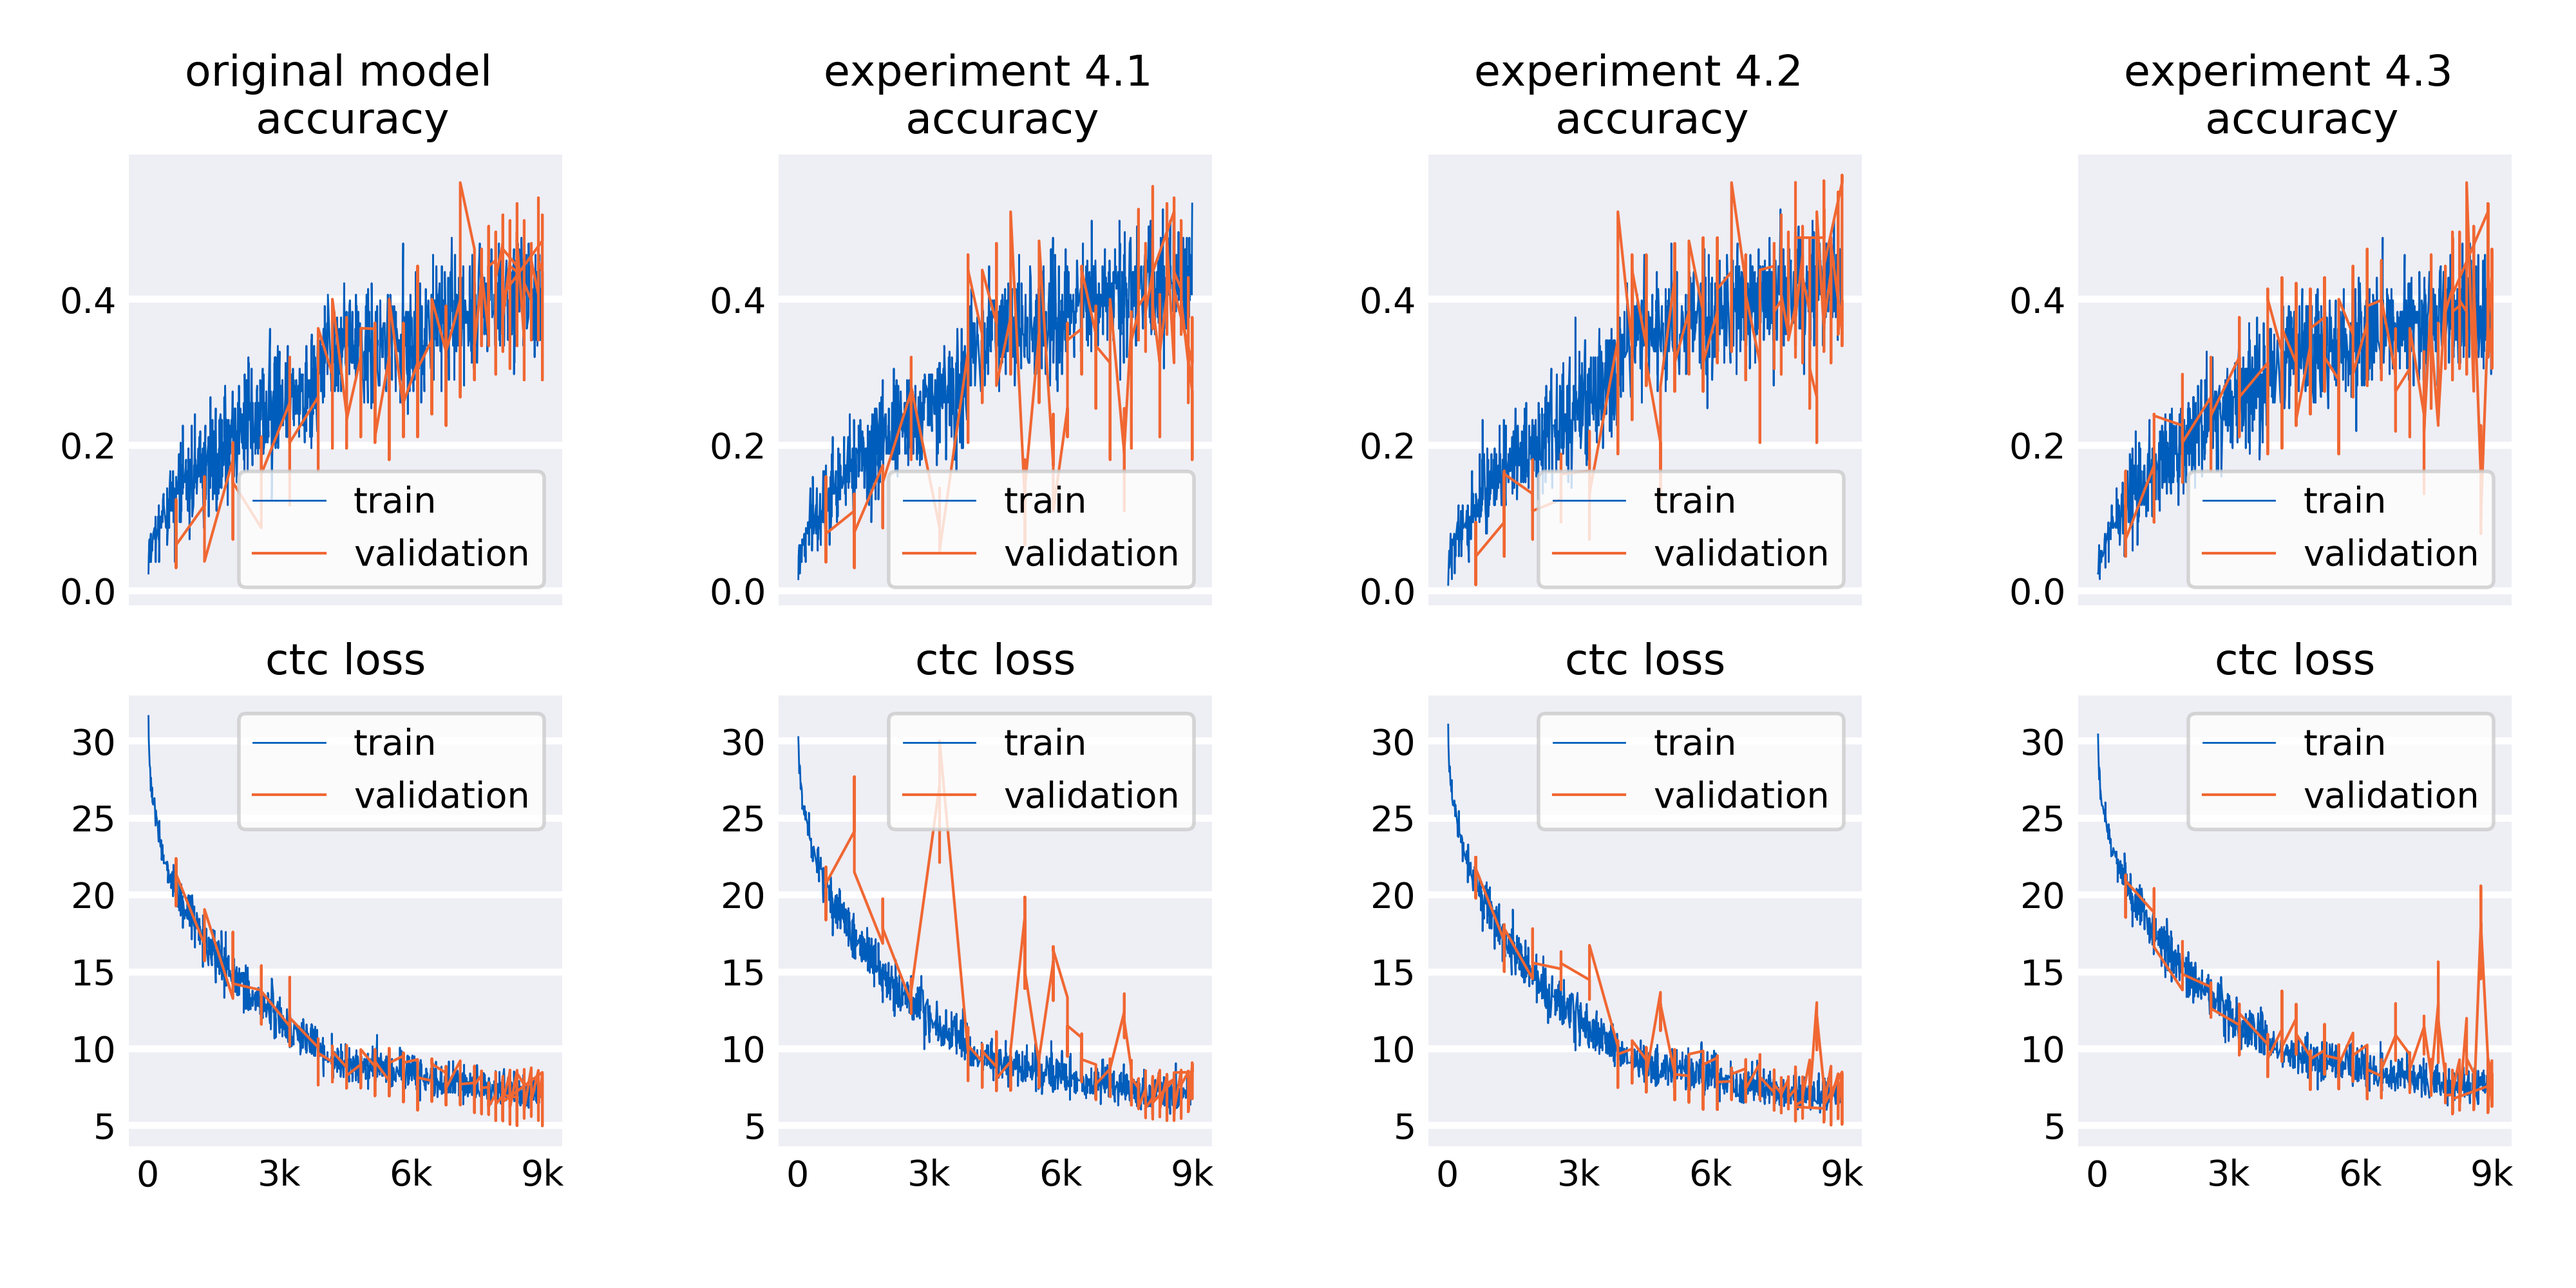
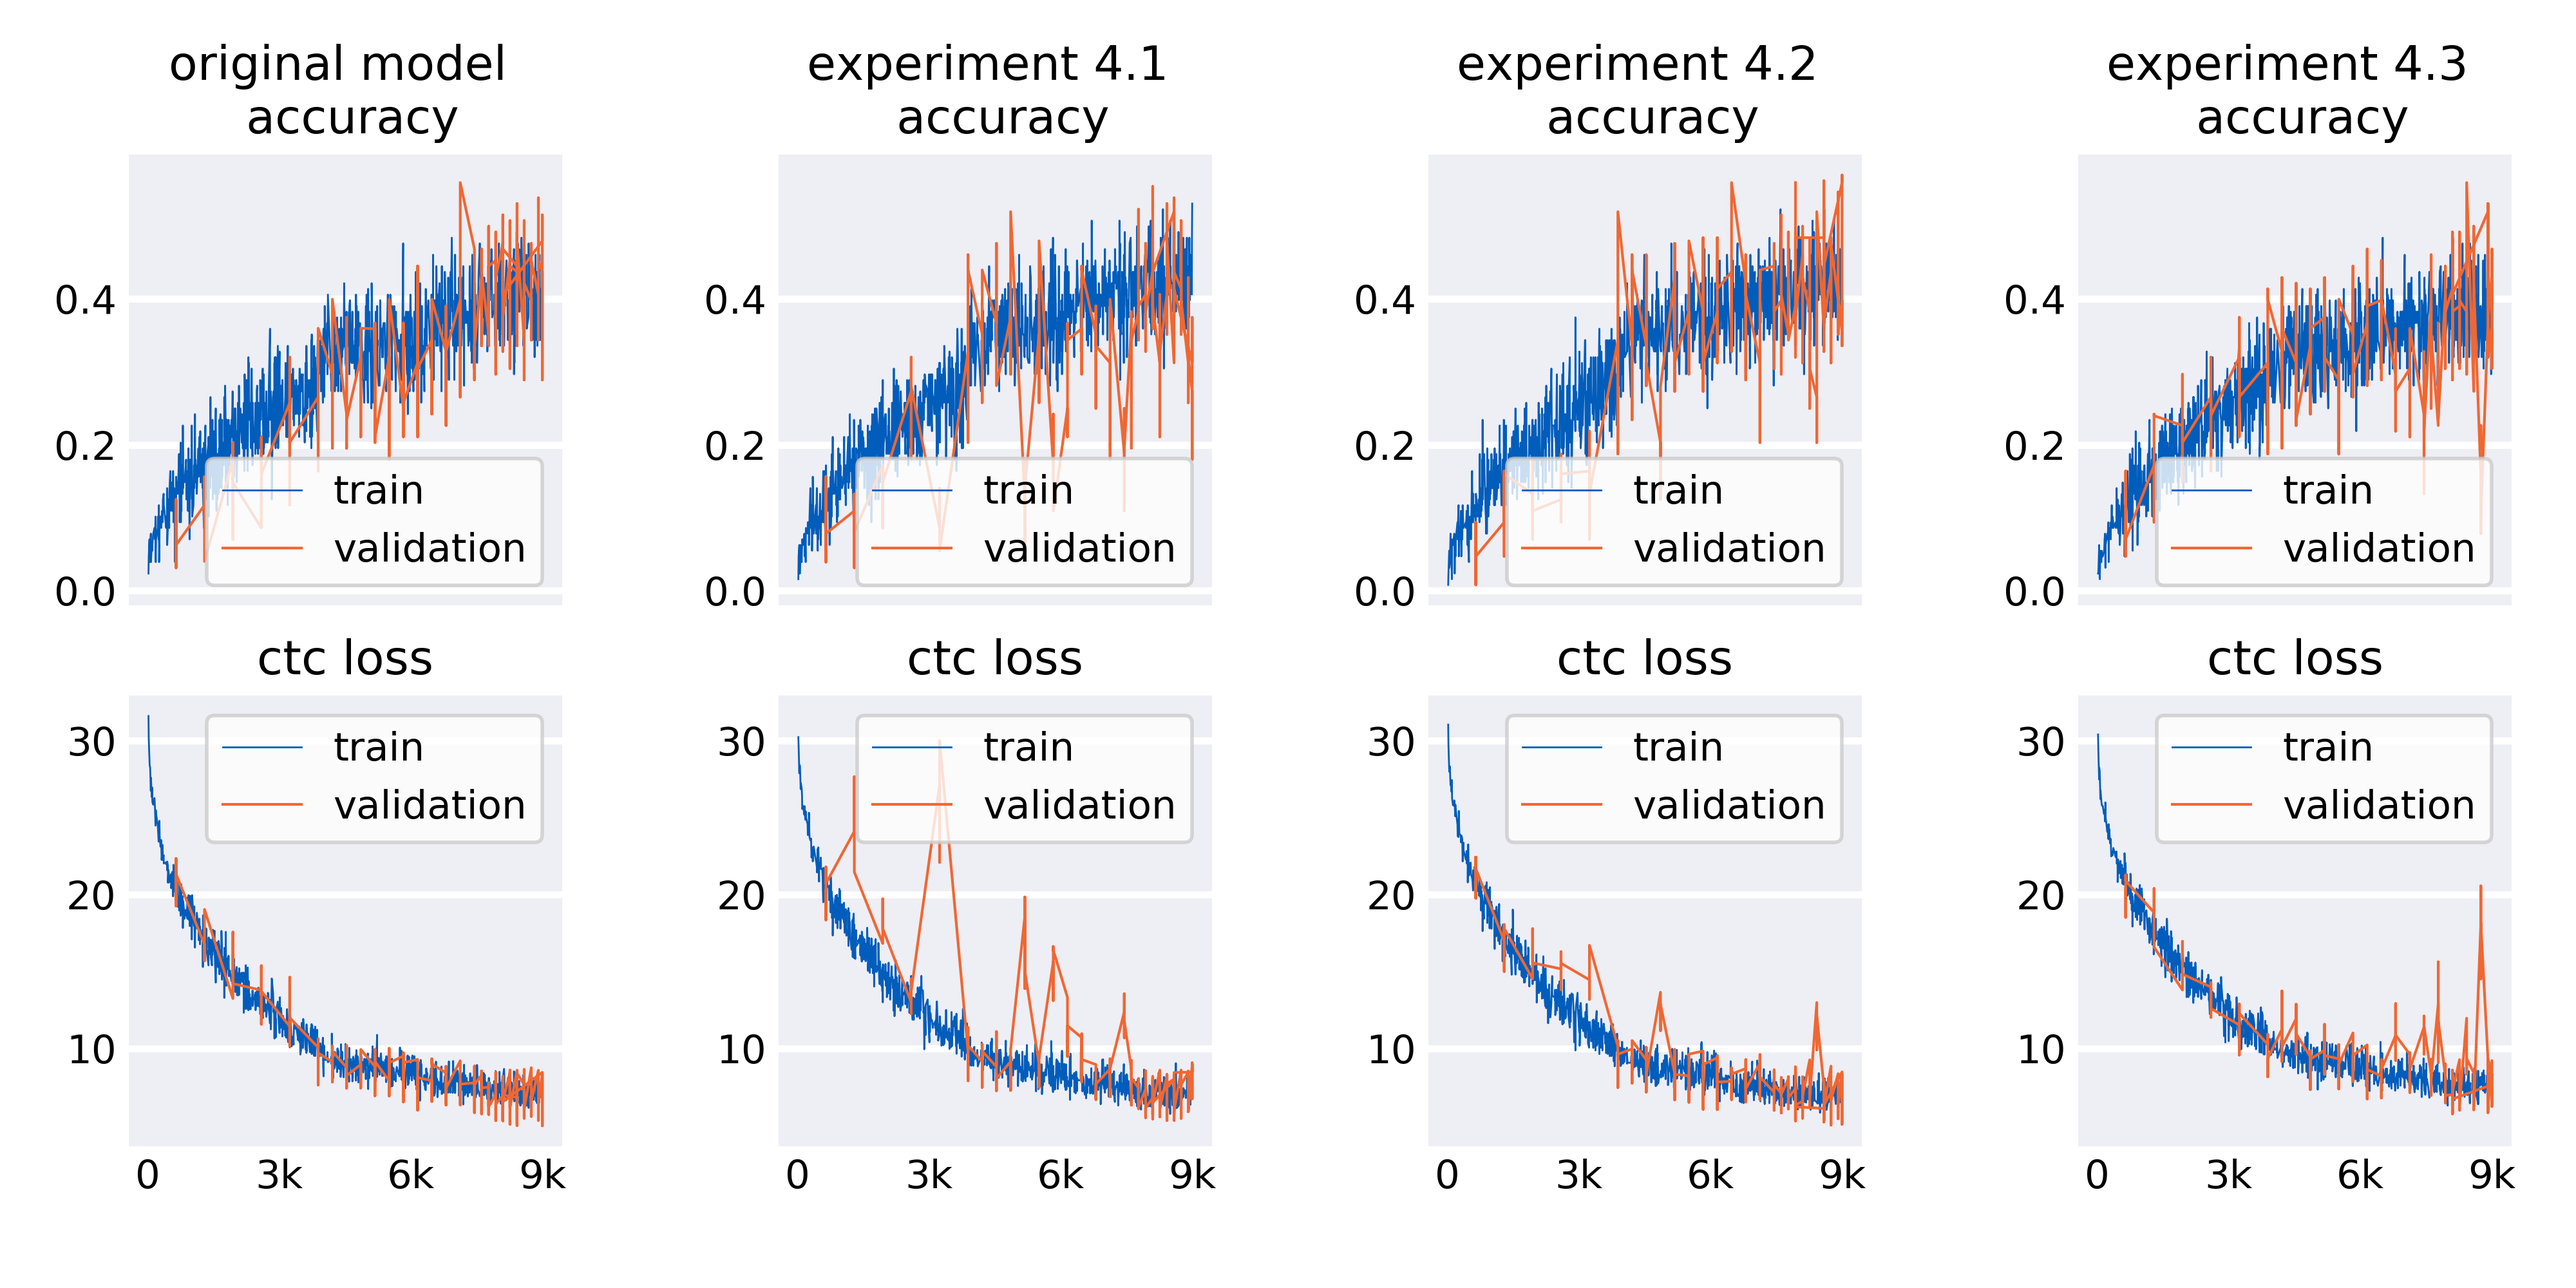
scripts relevant to BA thesis

diff --git a/results_plots/result_plots.py b/results_plots/result_plots.py
@@ -1,4 +1,5 @@
 import matplotlib.pyplot as plt
+plt.rcParams.update({'font.size': 12})
 fig, ax = plt.subplots()
 x = [1,4,7]
 
@@ -11,9 +12,9 @@ cnn_u = [0.475, 0.366, 0.34]
 labels = ['100', '50', '20']
 
 ax.plot(x, ldl_u, linestyle='--', marker='o',color='#944de4', label='LDL normal semvecs')
-ax.plot(x, ldl_u_r, linestyle='--', marker='o',color='#290057', label='LDL random semvecs')
+ax.plot(x, ldl_u_r, linestyle='--', marker='v',color='#290057', label='LDL random semvecs')
 
-ax.plot(x, cnn_u, linestyle='--', marker='o',color='#ff7b00', label='CNN-CTC-LSTM')
+ax.plot(x, cnn_u, linestyle='solid', marker='*',color='#ff7b00', label='CNN-CTC-LSTM')
 ax.tick_params(axis=u'both', which=u'both',length=0)
 ax.spines["top"].set_visible(False)
 ax.spines["right"].set_visible(False)
@@ -41,7 +42,7 @@ x = [1,4,7]
 
 # ldl vs cnn-ctc-lstm
 # unbalanced 1. ldl, 2. cnn-ctc-lstm: 100, 50, 20
-ldl_b = [0.0234, 0.0101, 0.00315]
+ldl_b = [0.0234, 0.0101, 0.00315] 
 cnn_b = [0.521, 0.348, 0.253]
 
 ldl_b_r = [0.0561, 0.0256, 0.0099]
@@ -49,9 +50,9 @@ ldl_b_r = [0.0561, 0.0256, 0.0099]
 labels = ['100', '50', '20']
 
 ax.plot(x, ldl_b, linestyle='--', marker='o',color='#944de4', label='LDL normal semvecs')
-ax.plot(x, ldl_b_r, linestyle='--', marker='o',color='#290057', label='LDL random semvecs')
+ax.plot(x, ldl_b_r, linestyle='--', marker='v',color='#290057', label='LDL random semvecs')
 
-ax.plot(x, cnn_b, linestyle='--', marker='o',color='#ff7b00', label='CNN-CTC-LSTM')
+ax.plot(x, cnn_b, linestyle='solid', marker='*',color='#ff7b00', label='CNN-CTC-LSTM')
 ax.tick_params(axis=u'both', which=u'both',length=0)
 plt.grid(color='white', linewidth=2)
 # only y axis grid
@@ -81,13 +82,13 @@ exp_4_mean = [0.139, 0.118, 0.144, 0.127]
 exp_4_ov = [0.341, 0.308, 0.351, 0.317]
 exp_4_un = [0.455, 0.476, 0.433, 0.485]
 
-labels = ['original network', 'Experiment 4.1', 'Experiment 4.2', 'Experiment 4.3']
-ax.axhline(y=0.139, xmin=0.0, xmax=1.0, color='#787878', linewidth=1, linestyle='--')
-ax.axhline(y=0.341, xmin=0.0, xmax=1.0, color='#787878', linewidth=1, linestyle='--')
-ax.axhline(y=0.455, xmin=0.0, xmax=1.0, color='#787878', linewidth=1, linestyle='--')
-ax.plot(x, exp_4_mean, marker='o',color='#00ff80', label='mean accuracy')
-ax.plot(x, exp_4_ov, marker='o',color='#3E8989', label='overall accuracy')
-ax.plot(x, exp_4_un, marker='o',color='#DB93B0', label='unknown')
+labels = ['original', '4.1', '4.2', '4.3']
+ax.axhline(y=0.139, xmin=0.0, xmax=1.0, color='#787878', linewidth=1, linestyle=':')
+ax.axhline(y=0.341, xmin=0.0, xmax=1.0, color='#787878', linewidth=1, linestyle=':')
+ax.axhline(y=0.455, xmin=0.0, xmax=1.0, color='#787878', linewidth=1, linestyle=':')
+ax.plot(x, exp_4_mean, marker='*',color='#00ff80', label='mean accuracy')
+ax.plot(x, exp_4_ov, marker='o',color='#3E8989', label='overall accuracy', linestyle='solid')
+ax.plot(x, exp_4_un, marker='v',color='#DB93B0', label='unknown', linestyle='solid')
 
 ax.set_ylim(bottom=0, top=1,)
 ax.tick_params(axis=u'both', which=u'both',length=0)
@@ -135,12 +136,12 @@ exp_3_un = [0.282, 0.434, 0.434]
 
 labels = ['threshold 100', 'threshold 50', 'threshold 20']
 
-ax.plot(x, exp_3_mean, marker='o',color='#00ff80', label='Experiment 3, mean accuracy')
-ax.plot(x, exp_1_mean, marker='o', linestyle=':',color='#00ff80', label='Experiment 1, mean accuracy')
-ax.plot(x, exp_3_ov, marker='o',color='#3E8989', label='Experiment 3, overall accuracy')
-ax.plot(x, exp_1_ov, marker='o', linestyle=':',color='#3E8989', label='Experiment 1, overall accuracy')
-ax.plot(x, exp_3_un, marker='o',color='#DB93B0', label='Experiment 3, unknown')
-ax.plot(x, exp_1_un, marker='o', linestyle=':',color='#DB93B0', label='Experiment 1, unknown')
+ax.plot(x, exp_3_mean, marker='*',color='#00ff80', label='Experiment 3, mean accuracy', linestyle='--')
+ax.plot(x, exp_1_mean, marker='*', color='#00ff80', label='Experiment 1, mean accuracy')
+ax.plot(x, exp_3_ov, marker='o',color='#3E8989', label='Experiment 3, overall accuracy', linestyle='--')
+ax.plot(x, exp_1_ov, marker='o', color='#3E8989', label='Experiment 1, overall accuracy')
+ax.plot(x, exp_3_un, marker='v',color='#DB93B0', label='Experiment 3, unknown', linestyle='--')
+ax.plot(x, exp_1_un, marker='v', color='#DB93B0', label='Experiment 1, unknown')
 ax.set_ylim(bottom=0, top=1,)
 
 ax.legend(loc='upper left', frameon=False)
@@ -186,12 +187,12 @@ exp_2_un = [0.341, 0.566, 0.673]
 
 labels = ['threshold 100', 'threshold 50', 'threshold 20']
 
-ax.plot(x, exp_2_mean, marker='o',color='#00ff80', label='Experiment 2, mean accuracy')
-ax.plot(x, exp_1_mean, marker='o', linestyle=':',color='#00ff80', label='Experiment 1, mean accuracy')
-ax.plot(x, exp_2_ov, marker='o',color='#3E8989', label='Experiment 2, overall accuracy')
-ax.plot(x, exp_1_ov, marker='o', linestyle=':',color='#3E8989', label='Experiment 1, overall accuracy')
-ax.plot(x, exp_2_un, marker='o',color='#DB93B0', label='Experiment 2, unknown')
-ax.plot(x, exp_1_un, marker='o', linestyle=':',color='#DB93B0', label='Experiment 1, unknown')
+ax.plot(x, exp_2_mean, marker='*',color='#00ff80', label='Experiment 2, mean accuracy', linestyle='--')
+ax.plot(x, exp_1_mean, marker='*',color='#00ff80', label='Experiment 1, mean accuracy')
+ax.plot(x, exp_2_ov, marker='o',color='#3E8989', label='Experiment 2, overall accuracy', linestyle='--')
+ax.plot(x, exp_1_ov, marker='o', color='#3E8989', label='Experiment 1, overall accuracy')
+ax.plot(x, exp_2_un, marker='v',color='#DB93B0', label='Experiment 2, unknown', linestyle='--')
+ax.plot(x, exp_1_un, marker='v', color='#DB93B0', label='Experiment 1, unknown')
 
 ax.set_ylim(bottom=0, top=1,)
 
@@ -223,9 +224,9 @@ exp_1_un = [0.283, 0.455, 0.457]
 
 labels = ['threshold 100', 'threshold 50', 'threshold 20']
 
-ax.plot(x, exp_1_mean, marker='o',color='#00ff80', label='mean accuracy')
+ax.plot(x, exp_1_mean, marker='*',color='#00ff80', label='mean accuracy')
 ax.plot(x, exp_1_ov, marker='o',color='#3E8989', label='overall accuracy')
-ax.plot(x, exp_1_un, marker='o',color='#DB93B0', label='unknown')
+ax.plot(x, exp_1_un, marker='v',color='#DB93B0', label='unknown')
 ax.set_ylim(bottom=0, top=1,)
 
 ax.legend(loc='upper left', frameon=False)

diff --git a/heatmap/make_heatmap.py b/heatmap/make_heatmap.py
@@ -6,7 +6,6 @@ import numpy as np
 import Levenshtein as L
 import epitran  
 import math
-from matplotlib.patches import Rectangle
 
 # this function sorts the confusion matrix (data) by the frequency of the words' occurences. 
 def sort_csv(data, submission, dat_val, heatmap_title, output_name, number, current,  colorbar_bool, folder_list='folder_list'):
@@ -140,17 +139,22 @@ def make_heatmap(ojdata, submission, dat_val, heatmap_title, output_name, number
 	if(colorbar_bool):
 		plt.tight_layout()
 		dat_new = sn.heatmap(dat, annot=False, xticklabels=False, yticklabels=False, cmap='gnuplot', mask=(dat==0), cbar_kws = cbar_kws, ax = ax, square=True)# font size
-		plt.subplots_adjust(left=-0.19, bottom=0.125)
+		dat_new.set_xlabel("X Label",fontsize=15)
+		dat_new.set_ylabel("Y Label",fontsize=15)
+		plt.subplots_adjust(top = 0.93, bottom=0.055, left=0.01)
 	else:
 		plt.tight_layout()
 		dat_new = sn.heatmap(dat, annot=False, xticklabels=False, yticklabels=False, cmap='gnuplot', mask=(dat==0), ax = ax, cbar = False, square=True)# font size
-		plt.subplots_adjust(left=-0.19, bottom=0.125)
+		dat_new.set_xlabel("X Label",fontsize=15)
+		dat_new.set_ylabel("Y Label",fontsize=15)
+		plt.subplots_adjust(top = 0.93, bottom=0.055, left=0.01)
 
-	dat_new.set_xlabel('predicted')
-	dat_new.set_ylabel('actual')
+	ax.figure.axes[-1].yaxis.label.set_size(15)
+	dat_new.set_xlabel('predicted',fontsize=15)
+	dat_new.set_ylabel('actual',fontsize=15)
 
 	figure = dat_new.get_figure() 
-	ax.set_title(heatmap_title)
+	ax.set_title(heatmap_title, fontsize=20)
 	#figure.show()
 	####################################   
 
@@ -177,6 +181,7 @@ def make_heatmap(ojdata, submission, dat_val, heatmap_title, output_name, number
 
 	#per = compute_per(folder_list, submission) 
 
+	''' NOT USED FOR FINAL PLOT
 	if(colorbar_bool):
 		unknown_per = unknown_percent(second_table)
 		mean_acc_text = ax.text(0, -0.075, str('mean accuracy = ' + str(acc)), fontsize=8, transform=ax.transAxes)
@@ -187,13 +192,15 @@ def make_heatmap(ojdata, submission, dat_val, heatmap_title, output_name, number
 		mean_acc_text = ax.text(0, -0.075, str('mean accuracy = ' + str(acc)), fontsize=8, transform=ax.transAxes)
 		all_acc_text = ax.text(0, -0.125, str('overall accuracy = ' + str(acc_2)), fontsize=8, transform=ax.transAxes)
 		unknown_per_text = ax.text(1, -0.075, str('unknown = ' + str(unknown_per)), fontsize=8, transform=ax.transAxes, horizontalalignment='right')
-
+	'''
 
 	figure.savefig(output_name + '.png', dpi=400)
 
+	''' NOT USED FOR FINAL PLOT
 	unknown_per_text.set_visible(False)
 	mean_acc_text.set_visible(False)
 	all_acc_text.set_visible(False)
+	'''
 
 def compute_per(folder_list_o, submission_o):
 

diff --git a/train_validation_plots/plot_val_train.py b/train_validation_plots/plot_val_train.py
@@ -3,7 +3,7 @@ from matplotlib import pyplot as plt
 import numpy as np
 import matplotlib.colors as mcolors
 import math
-
+plt.rcParams.update({'font.size': 11})
 fig = plt.figure(figsize=(10,5))
 #fig.suptitle('model accuracy in experiment 4.1')
 
